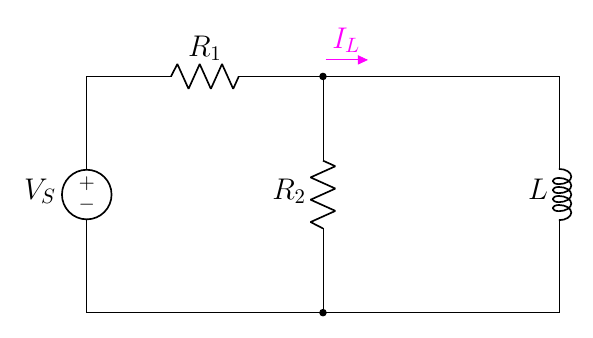
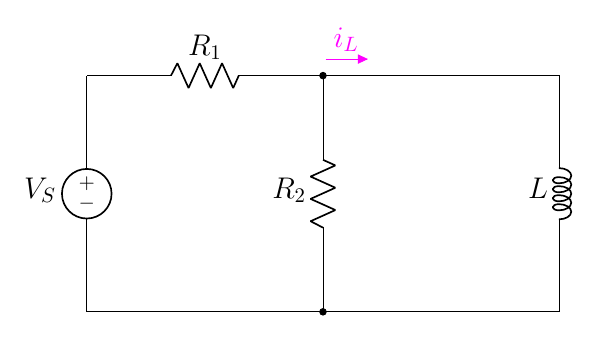
7.63

diff --git a/2.3 Driven RL/7.6 Driven RL/7.63(new).tex b/2.3 Driven RL/7.6 Driven RL/7.63(new).tex
@@ -25,6 +25,6 @@
         to[short] ++(4,0);
     %%% find %%%
     \draw[circuitikz/current arrow color=magenta](4,4)
-    to[open,f>^=$\color{magenta}{I_L}$] ++(2,0);
+    to[open,f>^=$\color{magenta}{i_L}$] ++(2,0);
 \end{circuitikz}
 \end{document}
